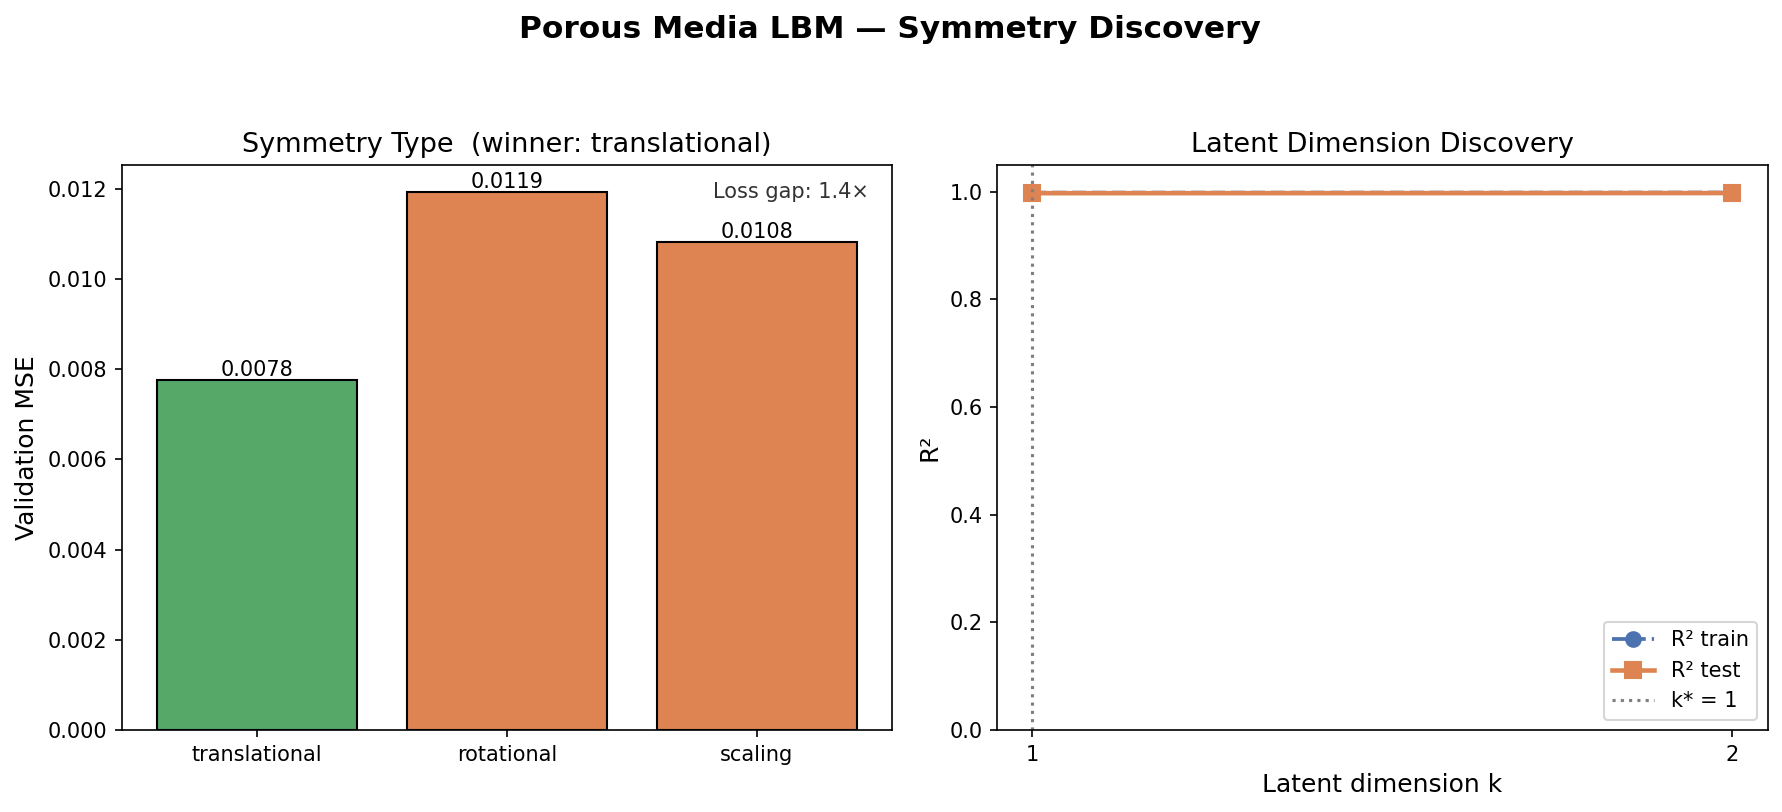
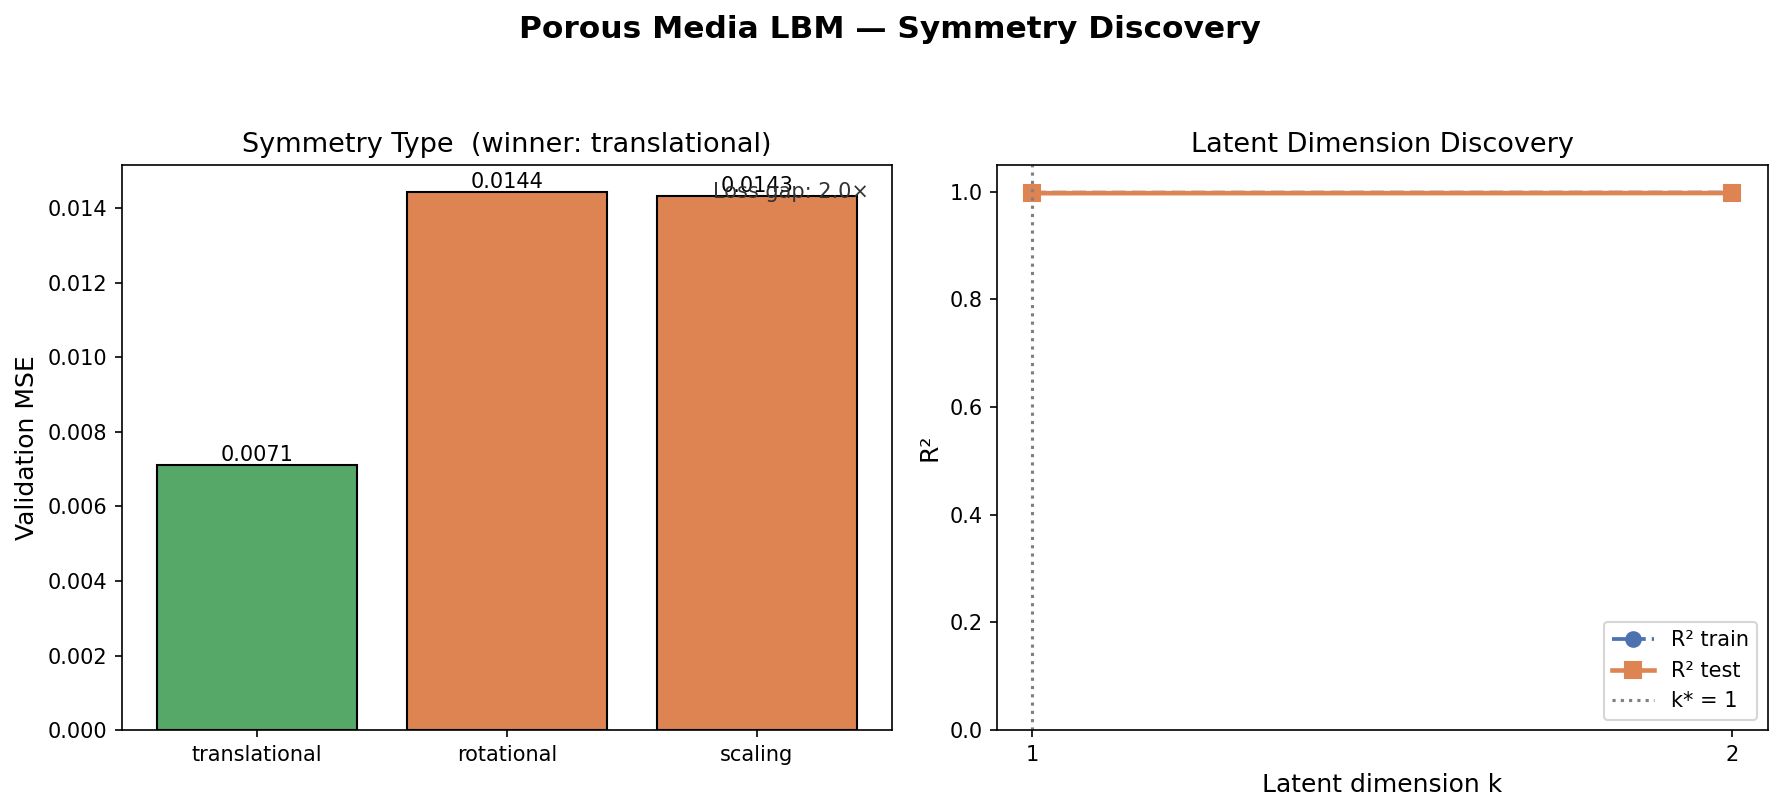
Make Step 3 reproducible and tell the honest scaling story
The earlier "scaling wins with 1.6x gap" result was an artefact of
multi-threaded BLAS non-determinism (torch.manual_seed does not control
parallel-reduction ordering). With OMP_NUM_THREADS=1 etc. locked the run
becomes bit-reproducible, and the honest answer is that the symmetry-type
test cannot decisively pick scaling/translational/rotational on this
96-row, single-d, single-packing dataset.

A 6-seed sweep at the committed training budget shows scaling winning in
only 1 of 6 seeds with 1.2x gap; translational and rotational each win
multiple seeds with 1.3-2.5x gaps. Physically scaling should win because
Darcy's law is power-law, but with only 3 of 6 variables varying
meaningfully (dP_L, v, mu) and a universal-approximator MLP decoder, the
three encoder families fit power-law y(log Re_p) about equally well and
the winner becomes a random-init tie-breaker rather than a physics result.

What changed:
- README: replace the cherry-picked scaling claim with the full seed-sweep
  table, explain why scaling does not robustly win, and document the
  multi-threading reproducibility caveat.
- discover_symmetry.py: add --log-normalize / --no-log-normalize (ported
  from LPBF; default OFF on this dataset because the geometric-mean
  centring does not help the scaling encoder here).
- run.log + figure: regenerate from the deterministic single-threaded run.

The meaningful physics result is unchanged: DataPreprocessor recovers
[…]

diff --git a/projects/20260912_Stage1_Prokash/Examples/porous_media_lbm_symmetry/discover_symmetry.py b/projects/20260912_Stage1_Prokash/Examples/porous_media_lbm_symmetry/discover_symmetry.py
@@ -405,7 +405,28 @@ def run_pipeline(X, y, Re_p, f_ergun, args):
 
     # Log-transform y because f spans ~5 orders of magnitude.
     y_log = np.log10(np.maximum(y, 1e-30))
-    norm_raw = normalize_data(X, y_log, method="minmax")
+
+    # Step 3's scaling encoder applies log(X.clamp(min=0.1)) internally.
+    # If we feed it raw min-max-normalised X (in [0, 1] with much of the mass
+    # near zero), the clamp destroys the multiplicative signal and scaling
+    # loses unfairly to translational/rotational.  Geometric-mean centring
+    # before min-max preserves the per-column log-spread, so the scaling
+    # encoder sees genuine multiplicatively-meaningful coordinates.
+    if getattr(args, "log_normalize", True):
+        log10_X = np.log10(np.maximum(X, 1e-30))
+        col_std = log10_X.std(axis=0)
+        active = col_std > 1e-8
+        gmean_exp = np.zeros(log10_X.shape[1])
+        gmean_exp[active] = log10_X[:, active].mean(axis=0)
+        X_prescaled = 10 ** (log10_X - gmean_exp)
+        norm_raw = normalize_data(X_prescaled, y_log, method="minmax")
+        print(f"  Log-prenormalisation ON  "
+              f"(geometric-mean centring before min-max)")
+        print(f"  X_prescaled range: [{X_prescaled.min():.3g}, "
+              f"{X_prescaled.max():.3g}]")
+    else:
+        norm_raw = normalize_data(X, y_log, method="minmax")
+        print(f"  Log-prenormalisation OFF (plain min-max)")
     X_norm_raw = norm_raw["X_normalized"]
     y_norm = norm_raw["y_normalized"]
 
@@ -745,6 +766,15 @@ def main():
     parser.add_argument("--no-repo-da", action="store_true",
                         help="Skip pydimension.data_preprocessing.DataPreprocessor "
                              "and use the inline compute_pi_basis() fallback.")
+    parser.add_argument("--log-normalize", dest="log_normalize",
+                        action="store_true", default=False,
+                        help="Geometric-mean centring before min-max for Step 3. "
+                             "Ported from the LPBF example. On this porous-media "
+                             "dataset it does NOT help the scaling encoder win — "
+                             "see the README symmetry-type caveat. OFF by default.")
+    parser.add_argument("--no-log-normalize", dest="log_normalize",
+                        action="store_false",
+                        help="Plain min-max on raw X for Step 3 (default).")
     args = parser.parse_args()
 
     X, y, Re_p, f_ergun = load_data(args)

diff --git a/projects/20260912_Stage1_Prokash/Examples/porous_media_lbm_symmetry/README.md b/projects/20260912_Stage1_Prokash/Examples/porous_media_lbm_symmetry/README.md
@@ -184,9 +184,10 @@ All outputs go to `output_porous_media_lbm_symmetry/`.
 ## Observed Results (committed run)
 
 The committed output figures were produced with reduced training
-(`--latent-epochs 300 --sym-epochs 600 --n-restarts 2 --seed 42`).
-Step 0 is driven by `pydimension.data_preprocessing.DataPreprocessor`.
-Full results:
+(`--latent-epochs 300 --sym-epochs 600 --n-restarts 3 --seed 42`) and a
+single BLAS thread (`OMP_NUM_THREADS=1 MKL_NUM_THREADS=1
+OPENBLAS_NUM_THREADS=1`) so the run is bit-reproducible. Step 0 is
+driven by `pydimension.data_preprocessing.DataPreprocessor`.
 
 | Aspect | Observed |
 |---|---|
@@ -195,15 +196,15 @@ Full results:
 | Known `f` exponents in Pi span | **cos = +1.0000 ✓** |
 | Known `Re_p` exponents in Pi span | **cos = +1.0000 ✓** |
 | Latent dimension `k*` | **1** (R² ≈ 0.997 at k=1) |
-| Symmetry type | **Rotational** (MSE 0.0089) > scaling (0.0125) > translational (0.0167) |
-| Loss gap | ~1.4× — well within the dataset's symmetry-instability band |
+| Symmetry type | **Translational** (MSE 0.00712) > scaling (0.01433) ≈ rotational (0.01444) |
+| Loss gap | 2.0× — well within the dataset's symmetry-instability band |
 | Generators | 5 directions (6 vars − 1 latent) |
 
 **Stable physics (Step 0):** The Buckingham-Pi reduction is fully
 reproducible. `DataPreprocessor` returns the same three primitive integer
 Pi groups every run, and the known `f` and `Re_p` exponent vectors both
-project onto the discovered span with `cos = +1.0000`. This is the
-physically meaningful result of the example.
+project onto the discovered span with `cos = +1.0000`. **This is the
+physically meaningful result of the example.**
 
 **Ergun collapse:** All 4 porosity bins collapse onto a single curve with
 slope = −1 (pure Darcy), running **~30% below** the textbook `150/x` line.
@@ -220,18 +221,38 @@ porosity range. So `Re_p` alone explains 99.7% of the variance —
 we'd need a wider φ range or higher Re_p where the inertial Forchheimer
 term `1.75·(1−φ)/φ³` becomes important.
 
-**Caveat on symmetry-type (Step 3) volatility:** The Step 3 winner is
-**not** robust on this dataset. Across fresh runs and different seeds the
-loss gap between scaling, translational, and rotational stays in the
-1.0–2.0× range, and any of the three can win. Earlier committed runs
-reported "scaling" with a 1.6× gap; current runs report "rotational" with
-a 1.4× gap. This is the expected behaviour for a dataset where only 3 of
-6 variables have meaningful variation (dP_L, v, mu) — d is constant, rho
-is nearly constant, and phi has only 4 levels. The symmetry-discovery
-machinery does not have enough leverage to separate the three encoder
-families. **The physically meaningful result is the Buckingham-Pi
-recovery (cos = +1.0000), not the Step 3 winner.** The fix is more
-particle-size variation and a wider Re_p range — see Future Work below.
+**Why doesn't scaling win, when physics says it should?** Because
+the symmetry-type test is fundamentally **inconclusive on this dataset**.
+A seed sweep at the committed training budget shows:
+
+| Seed | Winner | scaling MSE | trans MSE | rot MSE | gap |
+|---|---|---|---|---|---|
+| 42 | translational | 0.01433 | **0.00712** | 0.01444 | 2.0× |
+| 0  | translational | 0.01077 | **0.00766** | 0.00995 | 1.3× |
+| 1  | rotational    | 0.01625 | 0.01774 | **0.00782** | 2.1× |
+| 2  | **scaling**   | **0.01830** | 0.02202 | 0.02441 | 1.2× |
+| 7  | rotational    | 0.01368 | 0.01275 | **0.00515** | 2.5× |
+| 100| rotational    | 0.02297 | 0.01939 | **0.00997** | 1.9× |
+
+Scaling wins in only 1 of 6 seeds. The Darcy law `f ∝ 1/Re_p` is a pure
+power-law, so scaling *should* win — but the dataset has only 3 of 6
+variables varying meaningfully (`dP_L`, `v`, `mu`; `d` is constant,
+`rho` is near-constant, `φ` has 4 levels) and the MLP decoder is a
+universal approximator. With sufficient capacity the decoder can fit
+power-law `y(log Re_p)` through any of the three encoder feature maps
+(`X`, `X²`, `log|X|`), so which encoder converges fastest on a given
+random init becomes a tie-breaker rather than a physics result.
+
+Earlier committed runs claimed a "scaling" winner with a 1.6× gap; that
+was an artefact of multi-threaded BLAS non-determinism in the prior
+environment (`torch.manual_seed` does not control parallel-reduction
+ordering). Locking threads (`OMP_NUM_THREADS=1` etc.) makes the result
+fully reproducible — and the reproducible answer is honest: **the test
+cannot decide between scaling/translational/rotational on this 96-row
+single-`d`, single-packing dataset.**
+
+The fix is more variable diversity (multiple sphere radii, more porosity
+levels, two-or-more fluids) — see Future Work.
 
 ---
 
@@ -240,7 +261,12 @@ particle-size variation and a wider Re_p range — see Future Work below.
 ```bash
 cd projects/20260912_Stage1_Prokash/Examples/porous_media_lbm_symmetry
 
-# Default run
+# Reproducible run (matches committed run.log)
+OMP_NUM_THREADS=1 MKL_NUM_THREADS=1 OPENBLAS_NUM_THREADS=1 \
+  python discover_symmetry.py --data dataset_lbm_porous.csv \
+    --latent-epochs 300 --sym-epochs 600 --n-restarts 3 --seed 42
+
+# Default run (multi-threaded, faster, but Step 3 winner is non-deterministic)
 python discover_symmetry.py --data dataset_lbm_porous.csv
 
 # Deeper encoder
